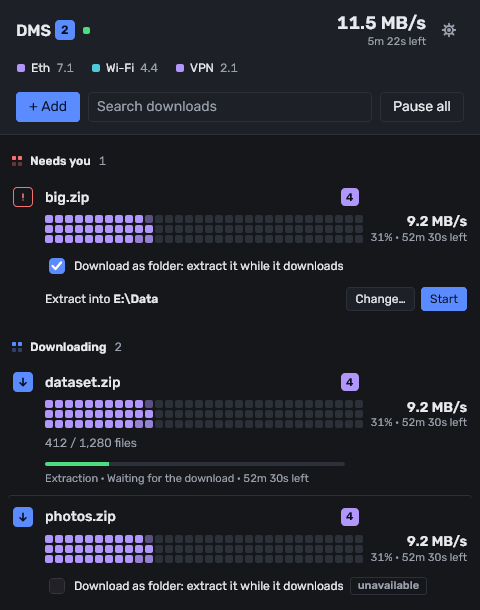
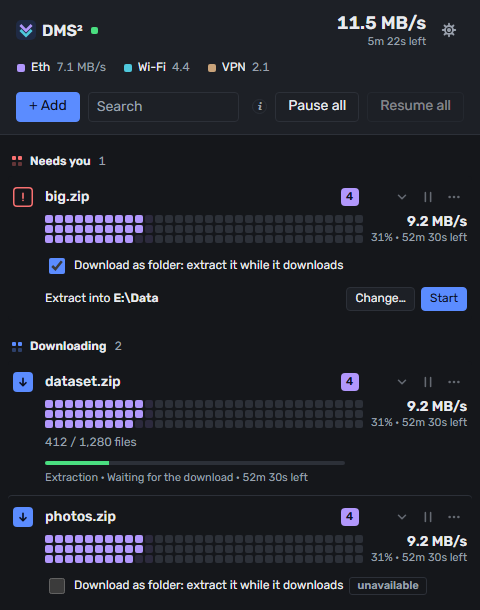
Docs match 0.9.0: settings, SFTP logins, encrypted tunnel configs and the new permissions; screenshots show the new mark; the Needs you tile shows its "!"; release notes for v0.9.0

diff --git a/extension/ui/menu.js b/extension/ui/menu.js
@@ -52,6 +52,7 @@ const ICONS = {
   down: "M8 3v10M4 9l4 4 4-4",
   chevron: "M4 6l4 4 4-4",
   check: "M3.5 8.5l3 3 6-7",
+  alert: "M8 3v6.5M8 12.5h.01",
   link: "M7 9a2.5 2.5 0 0 0 3.5 0l2-2a2.5 2.5 0 0 0-3.5-3.5l-.5.5M9 7a2.5 2.5 0 0 0-3.5 0l-2 2a2.5 2.5 0 0 0 3.5 3.5l.5-.5",
   box: "M2.5 5L8 2.5 13.5 5v6L8 13.5 2.5 11zM2.5 5L8 7.5 13.5 5M8 7.5v6",
   copy: "M5.5 5.5h7.5v8H5.5zM3 10.5V2.5h7.5",

diff --git a/docs/guide.md b/docs/guide.md
@@ -3,6 +3,7 @@
 Download a file of 100 MB or more as usual, or use *Download with DMS²* on a link's menu.
 
 - The toolbar icon lists your downloads. A left click on the tray icon opens the same list in its own window.
+- Links on the clipboard: paste them anywhere in the list, or use *Add link from clipboard* in the tray menu (links already in the list are skipped).
 - Each download shows its progress, speed and the connections it uses. **Details** has the rest.
 - **Connections & settings** is at the bottom of the list.
 - Unfinished files end in `.dms.part`. Progress is saved every few seconds.
@@ -42,16 +43,20 @@ A download's **Details → Checks → Edit** takes a SHA-256 or MD5. DMS² check
 
 - **Connections:** turn each on or off, set its parallel requests (4) and speed limit, and choose the main connection, used alone for servers that can't split a file. VPN adapters start off. *Enable IPv6 (experimental)* (off) uses IPv6 too; each connection shows a badge with what it has: IPv4, IPv6 or IPv4 + IPv6.
 - **Queue window:** optionally, per weekday, the hours the queue runs (an end before the start runs past midnight). Outside it nothing starts, running downloads pause and seeding torrents stop; they resume when it begins. A download you start or resume yourself still runs. No day set: no limit.
-- **Downloads:** takeover size (100 MB), save folder, downloads at once (1), Download as folder for new archives (off), a split archive's parts at once (off), keep the archive (Automatic).
-- **Torrents:** seed ratio (1).
+- **Saving and speed:** takeover size (100 MB), sites never taken over, save folder, downloads at once (1), notifications, keep the PC awake, start with Windows.
+- **Speed:** the unit speeds are shown in (sizes and speeds use base 1000: 1 MB = 1,000,000 bytes), and a download and an upload limit for all connections together (none).
+- **Archives:** Download as folder for new archives (off), a split archive's parts at once (off), keep the archive (Automatic).
+- **Torrents:** seed ratio (1), port for incoming peers.
+- **SFTP logins:** the logins and trusted server keys, removable.
 - **Learned sites:** the clicks remembered per site. *Forget* makes DMS² ask again.
+- **Appearance:** theme and accent colour.
 
 ### VPN
 
 Each connection can get its own WireGuard tunnel, for downloads, torrents or both. Choose **Off** (the connections without a tunnel only), **VPN and direct** (the tunnels too) or **VPN only** (the tunnels only).
 
 - **Private Internet Access:** sign in, and every connection without its own `.conf` gets a tunnel.
-- **Other providers:** import a `.conf` per connection. It must be plain WireGuard with an IPv4 address and an IPv4 DNS server (`DNS =`; IPv6 ones aren't used), one config per connection (a separate device or key at your provider). Obfuscated AmneziaWG configs don't work. If the provider forwards ports by NAT-PMP (Proton VPN on P2P servers, with NAT-PMP on when you make the config), DMS² gets a port for torrents by itself (not yet tested with Proton's servers). For a fixed port from your provider's panel (AirVPN), type it in the **Port** box next to the `.conf`.
+- **Other providers:** import a `.conf` per connection (it is kept encrypted with Windows). It must be plain WireGuard with an IPv4 address and an IPv4 DNS server (`DNS =`; IPv6 ones aren't used), one config per connection (a separate device or key at your provider). Obfuscated AmneziaWG configs don't work. If the provider forwards ports by NAT-PMP (Proton VPN on P2P servers, with NAT-PMP on when you make the config), DMS² gets a port for torrents by itself (not yet tested with Proton's servers). For a fixed port from your provider's panel (AirVPN), type it in the **Port** box next to the `.conf`.
 - For sites with a link per IP, use a different server for each connection, or they may share one address.
 - Which providers offer `.conf` files, and why PIA works differently: [vpn-providers.md](vpn-providers.md).
 

diff --git a/PRIVACY.md b/PRIVACY.md
@@ -18,7 +18,7 @@ Pages DMS² opens to fetch a link run in a temporary container that only reaches
 
 ## What the engine keeps
 
-In `%APPDATA%\downloadmanagersquared\`: your settings, the download list (with the URLs, landing pages and, until each download completes, its cookies, encrypted with Windows so only your user can read them; cookies an older version saved readable are encrypted as soon as the engine starts, and a download file that can't be read is set aside as `….broken` without its cookies), torrents, the log (no URLs), imported WireGuard configs, the login of an `ftp://user:password@…` link (encrypted with Windows, only until that download completes; the link itself is saved without it), the SFTP logins you gave (a password, or a key file's path and passphrase; encrypted with Windows, kept per host and user until you remove them in Settings) and the SSH host keys you trusted (public keys), the password you typed for an encrypted archive (encrypted with Windows, and only until that archive is extracted), and a PIA login if you use one, encrypted with Windows so only your user can read it. Uninstalling can delete all of it; your downloaded files are always kept.
+In `%APPDATA%\downloadmanagersquared\`: your settings, the download list (with the URLs, landing pages and, until each download completes, its cookies, encrypted with Windows so only your user can read them; cookies an older version saved readable are encrypted as soon as the engine starts, and a download file that can't be read is set aside as `….broken` without its cookies), torrents, the log (no URLs), imported WireGuard configs (encrypted with Windows, as their private keys are in them), the login of an `ftp://user:password@…` link (encrypted with Windows, only until that download completes; the link itself is saved without it), the SFTP logins you gave (a password, or a key file's path and passphrase; encrypted with Windows, kept per host and user until you remove them in Settings) and the SSH host keys you trusted (public keys), the password you typed for an encrypted archive (encrypted with Windows, and only until that archive is extracted), and a PIA login if you use one, encrypted with Windows so only your user can read it. Uninstalling can delete all of it; your downloaded files are always kept.
 
 ## Other users of the PC
 
@@ -54,6 +54,7 @@ The extension asks for these permissions:
 | `cookies` | Reading the cookies a download needs when the browser didn't send any with it, and copying your cookies for a landing page into the temporary container, so the page opens logged in |
 | `tabs` | Opening and closing the windows that click through landing pages, recording and replaying the clicks in them, and opening the settings page |
 | `storage` | Keeping the learned sites and containers in this browser |
-| `contextMenus` | The *Download with DMS²* entries on links and pages |
+| `contextMenus`, `menus` | The *Download with DMS²* entries on links and pages, hidden where they don't apply |
+| `theme` | Reading your browser theme's accent colour, to colour the pages |
 | `notifications` | Telling you when a download is taken over or can't be, and when a site needs your clicks or a captcha |
 | `<all_urls>` | Seeing downloads, magnet and ftp:// links and landing pages on any site |

diff --git a/docs/releases/v0.9.0.md b/docs/releases/v0.9.0.md
@@ -1,0 +1,42 @@
+### A new mark
+
+- DMS² has a new mark: two chevrons in two connections' colours on a navy tile. The tray, the exe, setup, the extension and the page headers all use it.
+
+### FTP, FTPS and SFTP
+
+- **FTP and FTPS:** paste an `ftp://` or `ftps://` link, or click one on a page. It downloads over every connection, anonymously unless the link has a login. The password is kept encrypted and never shown. `ftp://` is unencrypted; `ftps://` is encrypted.
+- **SFTP:** paste an `sftp://user@host/path` link, with a password in it or a key file under Options. Each connection opens its own SSH session and reads its part.
+- The first time an SFTP server is met you are asked to trust its key fingerprint, before any login is sent. A changed key fails the link with a warning and is never accepted by itself.
+- SFTP logins and trusted servers are listed in **Settings → SFTP logins**, and each can be removed there.
+- A server that allows only one login at a time costs a connection, not the link.
+
+### Queue window
+
+- **Settings → Queue runs only between** sets, per weekday, the hours the queue runs. Outside them nothing new starts, running downloads pause and seeding torrents stop; they resume when the window begins. A download you start yourself still runs. No day set: no limit.
+
+### Other new things
+
+- **Add link from clipboard** in the tray menu adds the links on the clipboard (http, https, ftp, ftps, sftp, magnet). It skips links already in the list and names the file.
+- The Downloads window opens where you left it.
+- A welcome page leads to the engine's download when the extension runs without it.
+- Sizes and speeds use base 1000 everywhere: the pages, the tray and the balloons. 1 MB is 1,000,000 bytes.
+- Partly written squares in the list show in the colour of the connection writing them, so a square with bytes on disk never goes blank, and a square being written shows its real written share.
+
+### Fixes
+
+- Removing a download while the list is drawn no longer crashes the engine, and a removed download stays gone.
+- A download in **Needs you** shows its "!" again instead of an empty tile.
+- Slow lines are no longer counted as stalled.
+- A checksum changed while a download is being verified is checked.
+- A split archive's parts hold still while one moves, leave no `.part` files and back off after a failed step. A finished download's speed counts only the time it was active.
+- One balloon per group instead of one per part.
+- A torrent's port is the live one after you change it.
+- The elevated copy of the engine is held unchanged while it runs, closed windows release WebView2, uninstalling restores the registrations when you decline the administrator prompt, and the tray tooltip never cuts an emoji in half.
+- Torrent files are kept inside the save folder.
+- When the VPN's adapter list fails, the VPN check runs again instead of stopping.
+
+### Security
+
+- An imported WireGuard `.conf` (it holds a private key) is kept encrypted with Windows; configs saved readable by an older version are encrypted at the next start.
+- The engine refuses oversized requests with a reply, and the extension can no longer make it quit.
+- DMS² tells you when the extension's version and the engine's may not work together.

diff --git a/docs/amo-reviewer-notes.md b/docs/amo-reviewer-notes.md
@@ -43,7 +43,8 @@ The engine keeps a download's cookies only until it completes, and sends them on
 | `cookies` | Read a URL's cookies in its container when no request header is available, and the containers' cookies. Before a temporary container opens a landing page, copy into it the cookies the user's own container would send to that page (`cookies.getAll({url})`, then `cookies.set` with the temporary container's `storeId`), so the page opens logged in. Never from a private window; nothing is copied back. |
 | `tabs` | Open and close resolve windows, inject the replay script with `tabs.executeScript`, and read the tabs open at startup for their pages. |
 | `storage` | The recorded clicks per site, the pages that led to recent downloads, the container ids, and running resolve jobs (`storage.session`). All local. |
-| `contextMenus` | "Download with DMS²" on links and pages. |
+| `contextMenus`, `menus` | "Download with DMS²" on links and pages; `menus.onShown` hides the page entry where it doesn't apply. |
+| `theme` | `theme.getCurrent` and `theme.onUpdated`: the browser theme's accent colour, sent to the engine for the pages' accent. |
 | `notifications` | Say that DMS² took a download or torrent, that it couldn't (Firefox downloads it instead), or that a resolve window needs the user. |
 | `<all_urls>` | Downloads and landing pages can be on any site: the `webRequest` listeners, script injection into resolve windows, and the `magnet:` content script. |
 

diff --git a/docs/adr/0005-secrets-at-rest-use-dpapi.md b/docs/adr/0005-secrets-at-rest-use-dpapi.md
@@ -9,7 +9,7 @@ The engine already encrypted the PIA login with DPAPI, but kept each download's 
 
 ## Decision
 
-Anything secret the engine writes to disk is encrypted with DPAPI for the current Windows user (`winutil.Protect`), never written readable. Today that is the PIA login, the cookies of a download and of each of its links, and the WireGuard configs the user imported (their private keys).
+Anything secret the engine writes to disk is encrypted with DPAPI for the current Windows user (`winutil.Protect`), never written readable. Today that is the PIA login, the cookies of a download and of each of its links, the WireGuard configs the user imported (their private keys), the logins of FTP and SFTP links (`sftp.json` keeps the SFTP ones per host and user) and an archive's password.
 
 Cookies use `download.Secret`, a string that encrypts itself when saved as JSON (`"dpapi:<base64>"`) and is plain in memory. It reads a plain value too, as older versions saved it, and encrypts it on the next save. A value that can't be decrypted (state copied from another user or PC) counts as no cookie: the download goes on without it rather than being set aside as broken. If encryption fails, saving fails; it never falls back to plain text.
 

diff --git a/CONTRIBUTING.md b/CONTRIBUTING.md
@@ -25,4 +25,4 @@ Tests alone: `cd engine && go test ./...` and `node --test "extension/test/*.tes
 
 The product mark is drawn in `engine/internal/mark` (the tray and setup icon) and mirrored in `extension/icons/icon.svg`. The exe's icon is the committed `engine/cmd/dms-engine/icon_windows_amd64.syso`; after changing the mark regenerate it with `cd engine/cmd/dms-engine && go run genicon.go`.
 
-Data and log live in `%APPDATA%\downloadmanagersquared\` (`settings.json`, `downloads\`, `torrents\`, `engine.log`). Unreadable files are renamed to `….broken`, with a notification.
+Data and log live in `%APPDATA%\downloadmanagersquared\` (`settings.json`, `downloads\`, `torrents\`, `sftp.json` (SFTP logins and trusted server keys), `engine.log`). Unreadable files are renamed to `….broken`, with a notification.
